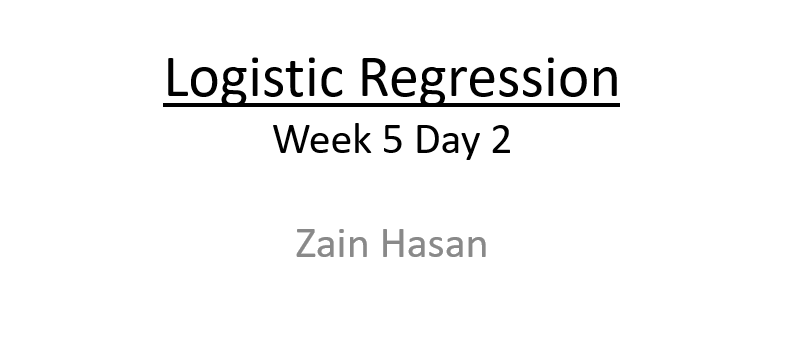
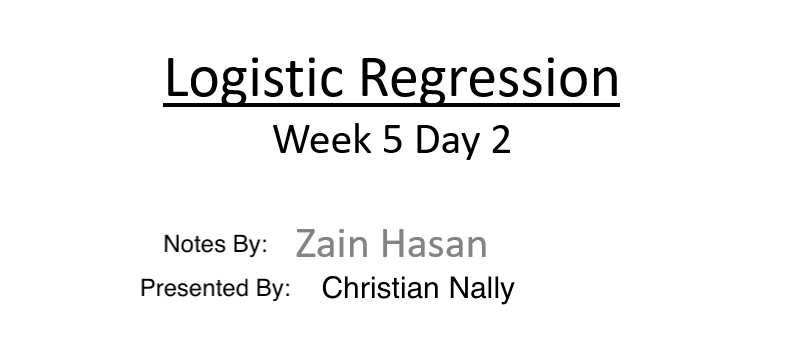
first commit

Changed region(s): [[0.4062, 0.7736, 0.6562, 0.8596], [0.1562, 0.8023, 0.375, 0.8596], [0.1875, 0.659, 0.3438, 0.745]]

diff --git a/w05d2/NOTES.md b/w05d2/NOTES.md
@@ -1,0 +1,42 @@
+Some Relevant Quotes
+====================
+
+“It can scarcely be denied that the supreme goal of all theory is to make the irreducible basic elements as 
+simple and as few as possible without having to surrender the adequate representation of a single datum of 
+experience.” - Einstein
+
+"In anything at all, perfection is finally attained not when there is no longer anything to add, but when 
+there is no longer anything to take away..." - Antoine de St. Exupery
+
+"Don't Believe Everything You Read on the Internet." - Abe Lincoln
+
+Who Am I?
+=========
+
+Christian Nally ("Nally" for short)
+
+1980s: Personal Computing, Writing Software
+1990s: Engineering, Experimental Physics (data analysis, simulation, neural networks, machine learning, ...)
+early 2000s: Satellite Control and Image Processing
+late 2000s: Freelance, Open Source Content Management, Web Systems
+2016+: Teaching
+
+Who Are You?
+============
+
+
+
+Logistic Regression
+===================
+
+Today we're going to:
+
+a) build out our INTUITION about some algorithms
+( dots on a scatter plot, lines on a plane, hyperplanes in n-dimensions, ...)
+
+b) take a peak at some actual ALGEBRA which helps to feed 
+our understanding (i.e. trust and mistrust) of those algorithms
+
+c) grow and practice our vocabulary around classification algorithms
+(precision, accuracy, log-odds, probability, sigmoid function, ... )
+
